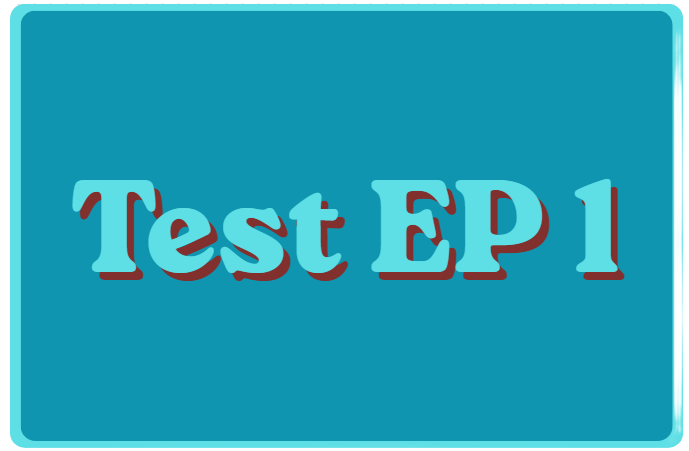
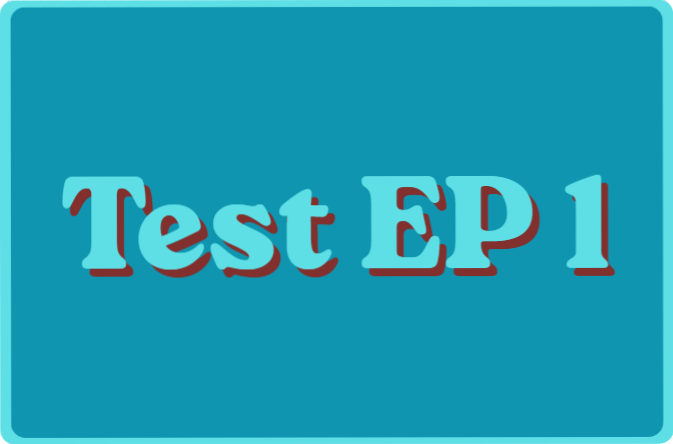
Added training tab, fixed video thumbnail

diff --git a/docs/training/start.md b/docs/training/start.md
@@ -1,0 +1,35 @@
+## **Welcome!!**
+
+**This is a short guide on how to best utilize our documentation!**
+
+---
+
+To begin, you should know most of the information under the documentation tab has been aquired from information on YOUR flashdrive. Which can easily be found by following the file path shown at the top of each document.
+
+![alt text](image.png)
+
+
+You may wish to do this for more context, as I have organized and compiled the information from each of the documents on the flash drive.
+
+---
+
+## **So why even use this site?**
+
+Largely the value of this site is easily accesible and searchable documentation. For instance, you may be struggling to align the laser, or forgot a step in the calibration process. Well instead of struggling to find the documentation on the flashdrive. 
+
+Simply pop over here and search it up! The information is easier to find, and compiled to be more easily digested.
+
+---
+
+## **Whats that?**
+
+Theres a lot of tools on the site, so heres a breakdown of each tab, and what everything is in them
+
+---
+### Random
+
+Well its kinda self explanatory, random fun stuff! Found something funny, or weird, or maybe your just appreciated the location your at for the week. Send it over to me and ill throw it in the site!
+
+---
+### Documentation
+

diff --git a/docs/documentation/Procedures/calibration/calibration.md b/docs/documentation/Procedures/calibration/calibration.md
@@ -7,6 +7,12 @@
  Source:
     6-Notes/StepBySteps/Calibrations
 
+!!! warning
+    **This procedure is outdated**
+
+
+
+
 ---
 Utilizes –
 WWCSI Laptop with Camio 7.2 & Caliprogs

diff --git a/docs/videos.md b/docs/videos.md
@@ -8,6 +8,6 @@ Coming soon
 <div class="grid cards" markdown>
 
 - [![Image](videos/test.png)](https://videos.mgtraining.net/MG-Test.mp4)
- **test**
+ 
 
 </div>